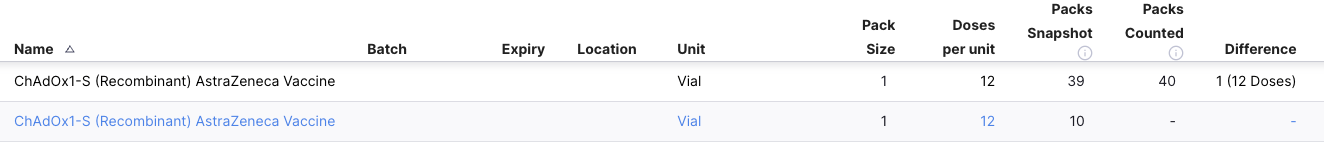
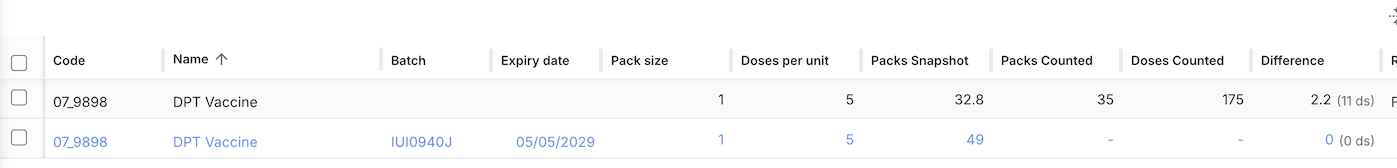
folder name consistency

diff --git a/themes/adidoks/templates/macros/docs-sidebar_accordion.html b/themes/adidoks/templates/macros/docs-sidebar_accordion.html
@@ -36,42 +36,41 @@
 						</h5>
 						<div id="collapse{{ subsection.title | slugify }}" class="accordion-collapse collapse {% if subsection.permalink in current_url %} show {% endif %}" aria-labelledby="{{ subsection.title | slugify }}" {% if subsection.permalink not in current_url %} data-bs-parent="#accordionSubMenu" {% endif %}>
 						  <div class="accordion-body">
-							<ul class="list-unstyled">
+							<ul class="list-unstyled">							
+								{% if subsection.subsections %}
+								<li><div class="accordion accordion-flush" id="accordionSubMenu{{ subsection.title | slugify }}">
+									{% for ss in subsection.subsections %}
+									{% set subsubsection = get_section(path=ss) %}
+									{% if subsubsection.pages %}
+									<div class="accordion-subitem">
+										<div id="{{ subsection.title | slugify }}-{{ subsubsection.title | slugify }}">
+											{% if subsubsection.permalink in current_url %}
+												<a class="docs-link docs-link-toggle" data-bs-toggle="collapse" data-bs-target="#collapse{{ subsection.title | slugify }}-{{ subsubsection.title | slugify }}" aria-expanded="true" aria-controls="collapse{{ subsection.title | slugify }}-{{ subsubsection.title | slugify }}">
+													{{ subsubsection.title }}
+												</a>
+											{% else %}
+												<a class="docs-link docs-link-toggle collapsed" data-bs-toggle="collapse" data-bs-target="#collapse{{ subsection.title | slugify }}-{{ subsubsection.title | slugify }}" aria-expanded="false" aria-controls="collapse{{ subsection.title | slugify }}-{{ subsubsection.title | slugify }}">
+													{{ subsubsection.title }}
+												</a>
+											{% endif %}
+										</div>
+										<div id="collapse{{ subsection.title | slugify }}-{{ subsubsection.title | slugify }}" class="accordion-collapse collapse {% if subsubsection.permalink in current_url %} show {% endif %}" aria-labelledby="{{ subsection.title | slugify }}-{{ subsubsection.title | slugify }}" {% if subsubsection.permalink not in current_url %} data-bs-parent="#accordionSubMenu{{ subsection.title | slugify }}" {% endif %}>
+										<div class="accordion-body">
+											<ul class="list-unstyled">
+											{% for page in subsubsection.pages %}
+												<li><a class="docs-link{% if current_url == page.permalink %} active{% endif %}" href="{{ page.permalink | safe }}">{{ page.title }}</a></li>
+											{% endfor %}
+											</ul>
+										</div>
+										</div>
+									</div>
+									{% endif %}
+									{% endfor %}
+								</div></li>
+								{% endif %}
 							  {% for page in subsection.pages %}
 								  <li><a class="docs-link{% if current_url == page.permalink %} active{% endif %}" href="{{ page.permalink | safe }}">{{ page.title }}</a></li>
 							  {% endfor %}
-							
-							{% if subsection.subsections %}
-							<li><div class="accordion accordion-flush" id="accordionSubMenu{{ subsection.title | slugify }}">
-								{% for ss in subsection.subsections %}
-								{% set subsubsection = get_section(path=ss) %}
-								{% if subsubsection.pages %}
-								<div class="accordion-subitem">
-									<div id="{{ subsection.title | slugify }}-{{ subsubsection.title | slugify }}">
-										{% if subsubsection.permalink in current_url %}
-											<a class="docs-link docs-link-toggle" data-bs-toggle="collapse" data-bs-target="#collapse{{ subsection.title | slugify }}-{{ subsubsection.title | slugify }}" aria-expanded="true" aria-controls="collapse{{ subsection.title | slugify }}-{{ subsubsection.title | slugify }}">
-												{{ subsubsection.title }}
-											</a>
-										{% else %}
-											<a class="docs-link docs-link-toggle collapsed" data-bs-toggle="collapse" data-bs-target="#collapse{{ subsection.title | slugify }}-{{ subsubsection.title | slugify }}" aria-expanded="false" aria-controls="collapse{{ subsection.title | slugify }}-{{ subsubsection.title | slugify }}">
-												{{ subsubsection.title }}
-											</a>
-										{% endif %}
-									</div>
-									<div id="collapse{{ subsection.title | slugify }}-{{ subsubsection.title | slugify }}" class="accordion-collapse collapse {% if subsubsection.permalink in current_url %} show {% endif %}" aria-labelledby="{{ subsection.title | slugify }}-{{ subsubsection.title | slugify }}" {% if subsubsection.permalink not in current_url %} data-bs-parent="#accordionSubMenu{{ subsection.title | slugify }}" {% endif %}>
-									<div class="accordion-body">
-										<ul class="list-unstyled">
-										{% for page in subsubsection.pages %}
-											<li><a class="docs-link{% if current_url == page.permalink %} active{% endif %}" href="{{ page.permalink | safe }}">{{ page.title }}</a></li>
-										{% endfor %}
-										</ul>
-									</div>
-									</div>
-								</div>
-								{% endif %}
-								{% endfor %}
-							</div></li>
-							{% endif %}
 							</ul>
 						  </div>
 						</div>

diff --git a/content/docs/inventory/inventory_adjustments/index.md b/content/docs/inventory/inventory_adjustments/index.md
@@ -38,31 +38,31 @@ The dialog displays information about the selected stock item and provides field
 
 At the top of the dialog you can see:
 
-| Field | Description |
-| :--- | :--- |
+| Field         | Description                         |
+| :------------ | :---------------------------------- |
 | **Item Name** | The name of the item being adjusted |
-| **Code** | The item code |
-| **Pack Size** | The pack size for this stock line |
+| **Code**      | The item code                       |
+| **Pack Size** | The pack size for this stock line   |
 
 ### Stock statistics
 
 Two cards display the current stock levels and a preview of the adjusted values:
 
-| Card | Description |
-| :--- | :--- |
+| Card                | Description                                                                                     |
+| :------------------ | :---------------------------------------------------------------------------------------------- |
 | **Available Packs** | Shows the current available quantity and the projected quantity after the adjustment is applied |
-| **Packs on Hand** | Shows the current packs on hand and the projected quantity after adjustment |
+| **Packs on Hand**   | Shows the current packs on hand and the projected quantity after adjustment                     |
 
 When a [backdated date](#backdating-an-adjustment) is selected, these cards display the **historical** stock level at that date alongside the projected adjusted value.
 
 ### Adjustment fields
 
-| Field | Description |
-| :--- | :--- |
-| **Increase / Decrease** | Select whether this adjustment will add stock (**Increase**) or remove stock (**Decrease**) |
-| **Adjust packs** | Enter the number of packs to add or remove |
-| **Date** | *(Optional, only visible if backdating is enabled)* The date the adjustment should be recorded as. Defaults to today. See [Backdating an Adjustment](#backdating-an-adjustment). |
-| **Reason** | Select a reason for the adjustment from the list. Reasons are configured by your system administrator. |
+| Field                   | Description                                                                                                                                                                      |
+| :---------------------- | :------------------------------------------------------------------------------------------------------------------------------------------------------------------------------- |
+| **Increase / Decrease** | Select whether this adjustment will add stock (**Increase**) or remove stock (**Decrease**)                                                                                      |
+| **Adjust packs**        | Enter the number of packs to add or remove                                                                                                                                       |
+| **Date**                | _(Optional, only visible if backdating is enabled)_ The date the adjustment should be recorded as. Defaults to today. See [Backdating an Adjustment](#backdating-an-adjustment). |
+| **Reason**              | Select a reason for the adjustment from the list. Reasons are configured by your system administrator.                                                                           |
 
 <div class="note">
 The <strong>Reason</strong> field is required and will remain disabled until you enter a quantity greater than zero.
@@ -126,11 +126,11 @@ If you select today's date in the **Date** field, the system treats this as a no
 
 ## Administrator Configuration
 
-Backdating for inventory adjustments is controlled by the **Backdating** global preference, available on the [Open mSupply Central Server](/docs/getting_started/central-server).
+Backdating for inventory adjustments is controlled by the **Backdating** global preference, available on the [Open mSupply Central Server](/docs/getting-started/central-server).
 
-| Setting | Description |
-| :--- | :--- |
-| **Inventory adjustments enabled** | Enables or disables the **Date** field in the Stock Adjustment dialog. |
-| **Max days** | The maximum number of days in the past that an adjustment can be backdated. Set to `0` for no limit. |
+| Setting                           | Description                                                                                          |
+| :-------------------------------- | :--------------------------------------------------------------------------------------------------- |
+| **Inventory adjustments enabled** | Enables or disables the **Date** field in the Stock Adjustment dialog.                               |
+| **Max days**                      | The maximum number of days in the past that an adjustment can be backdated. Set to `0` for no limit. |
 
 See [Global Preferences](/docs/manage/global-preferences/) for instructions on configuring these settings.

diff --git a/content/docs/catalogue/assets/index.fr.md b/content/docs/catalogue/assets/index.fr.md
@@ -30,15 +30,15 @@ Vous pouvez voir ici tous les équipements disponibles dans votre dépôt.
 
 La liste des équipements est divisée en 6 colonnes :
 
-| Colonne             | Description                                                                                                               |
-| :------------------ | :------------------------------------------------------------------------------------------------------------------------ |
-| **Sous-catalogue**  | Le catalogue auquel cet équipement appartient                                                                             |
-| **Code**            | Le code de l'article du catalogue auquel cet équipement appartient                                                       |
-| **Type**            | Le type d'équipement                                                                                                      |
-| **Fabricant**       | Le fabricant de votre équipement                                                                                          |
-| **Modèle**          | Le numéro de modèle de l'équipement                                                                                       |
-| **Classe**          | La classe de l'équipement. ex : `Équipement de chaîne du froid`                                                          |
-| **Catégorie**       | La sous-catégorie de l'équipement, ex. section E003 dans le catalogue PQS qui correspond aux `Réfrigérateurs et congélateurs` |
+| Colonne            | Description                                                                                                                   |
+| :----------------- | :---------------------------------------------------------------------------------------------------------------------------- |
+| **Sous-catalogue** | Le catalogue auquel cet équipement appartient                                                                                 |
+| **Code**           | Le code de l'article du catalogue auquel cet équipement appartient                                                            |
+| **Type**           | Le type d'équipement                                                                                                          |
+| **Fabricant**      | Le fabricant de votre équipement                                                                                              |
+| **Modèle**         | Le numéro de modèle de l'équipement                                                                                           |
+| **Classe**         | La classe de l'équipement. ex : `Équipement de chaîne du froid`                                                               |
+| **Catégorie**      | La sous-catégorie de l'équipement, ex. section E003 dans le catalogue PQS qui correspond aux `Réfrigérateurs et congélateurs` |
 
 ![Page équipements](images-en/assets_page.png)
 
@@ -62,7 +62,7 @@ Pour ajouter un filtre à la page, choisissez le filtre souhaité dans le menu d
 
 ### Importer et exporter
 
-L'importation et la suppression d'articles du catalogue d'équipements ne peuvent être effectuées que depuis le [Serveur Central Open mSupply](/docs/getting_started/central-server).
+L'importation et la suppression d'articles du catalogue d'équipements ne peuvent être effectuées que depuis le [Serveur Central Open mSupply](/docs/getting-started/central-server).
 
 #### Importer
 
@@ -96,7 +96,7 @@ Sur le Serveur Central Open mSupply, il est possible de sélectionner et supprim
 
 ### Gérer les raisons du journal de statut
 
-<div class="note">Les raisons du journal de statut sont gérées depuis le <a href="/docs/getting_started/central-server">serveur central Open mSupply</a>.</div>
+<div class="note">Les raisons du journal de statut sont gérées depuis le <a href="/docs/getting-started/central-server">serveur central Open mSupply</a>.</div>
 
 Lorsque les utilisateurs ajoutent un nouveau journal de statut pour un équipement particulier, des détails supplémentaires peuvent être fournis avec une raison associée au nouveau statut. Par exemple, un équipement qui a été étiqueté `NON_FONCTIONNEL` pourrait se voir attribuer la raison `alimentation électrique défectueuse`. Ces raisons sont personnalisables et associées à un statut particulier.
 

diff --git a/content/docs/manage/facilities/index.fr.md b/content/docs/manage/facilities/index.fr.md
@@ -13,7 +13,7 @@ toc = true
 top = false
 +++
 
-La liste des dépôts est disponible uniquement sur le [Serveur Central Open mSupply](/docs/getting_started/central-server). C'est ici que vous pouvez consulter tous les dépôts et gérer leurs propriétés.
+La liste des dépôts est disponible uniquement sur le [Serveur Central Open mSupply](/docs/getting-started/central-server). C'est ici que vous pouvez consulter tous les dépôts et gérer leurs propriétés.
 
 ## Consulter les dépôts
 
@@ -25,13 +25,13 @@ Une liste des dépôts de votre système vous sera présentée.
 
 La liste des dépôts est divisée en 5 colonnes :
 
-| Colonne        | Description                              |
-| :------------- | :--------------------------------------- |
-| **Code**       | Le code du dépôt                         |
-| **Nom**        | Le nom du dépôt                          |
-| **Fournisseur**| Si ce dépôt est un fournisseur           |
-| **Client**     | Si ce dépôt est un client               |
-| **Donateur**   | Si ce dépôt est un donateur             |
+| Colonne         | Description                    |
+| :-------------- | :----------------------------- |
+| **Code**        | Le code du dépôt               |
+| **Nom**         | Le nom du dépôt                |
+| **Fournisseur** | Si ce dépôt est un fournisseur |
+| **Client**      | Si ce dépôt est un client      |
+| **Donateur**    | Si ce dépôt est un donateur    |
 
 <div class="tip">
 Vous pouvez savoir si un client utilise également Open mSupply dans son dépôt s'il dispose d'une icône comme celle-ci <img src="images/is_msupplystoreicon.png" alt="Dépôt" style="width:auto"> à côté du code.
@@ -131,7 +131,7 @@ Cliquez sur `Annuler` à tout moment pour annuler vos modifications et fermer la
 
 ## Permissions et restrictions
 
-Les dépôts ne sont visibles que sur le [Serveur Central Open mSupply](/docs/getting_started/central-server).
+Les dépôts ne sont visibles que sur le [Serveur Central Open mSupply](/docs/getting-started/central-server).
 
 Pour modifier les dépôts de façon centralisée, vous avez besoin de la permission `Peut modifier les données centrales`, activée dans l'[onglet Permissions omSupply](https://docs.msupply.org.nz/admin:managing_users?s[]=permission#omsupply_permissions_tab) de votre Dépôt Central.
 

diff --git a/content/docs/manage/demographics/index.fr.md b/content/docs/manage/demographics/index.fr.md
@@ -15,7 +15,7 @@ top = false
 
 La section Démographie vous permet de consulter et de gérer les projections futures pour différents indicateurs démographiques. Ces données de population peuvent ensuite être utilisées pour estimer la capacité de stockage à froid requise pour les programmes de vaccination à venir.
 
-La gestion des données démographiques est uniquement disponible sur le [Serveur Central Open mSupply](/docs/getting_started/central-server).
+La gestion des données démographiques est uniquement disponible sur le [Serveur Central Open mSupply](/docs/getting-started/central-server).
 
 ## Configuration
 
@@ -35,12 +35,12 @@ Une liste des indicateurs démographiques vous sera présentée :
 
 Les colonnes suivantes sont affichées :
 
-| Colonne                  | Description                                                                             |
-| :----------------------- | :-------------------------------------------------------------------------------------- |
-| **Nom**                  | Le nom du indicateur démographique                                                      |
-| **Pourcentage**          | Pourcentage de la population générale inclus dans ce groupe démographique               |
-| **Population**           | La population calculée pour ce groupe, basée sur le `Pourcentage`                      |
-| **Colonnes sur 5 ans**   | Projections de population pour 5 années futures, basées sur les prévisions de `% de croissance` |
+| Colonne                | Description                                                                                     |
+| :--------------------- | :---------------------------------------------------------------------------------------------- |
+| **Nom**                | Le nom du indicateur démographique                                                              |
+| **Pourcentage**        | Pourcentage de la population générale inclus dans ce groupe démographique                       |
+| **Population**         | La population calculée pour ce groupe, basée sur le `Pourcentage`                               |
+| **Colonnes sur 5 ans** | Projections de population pour 5 années futures, basées sur les prévisions de `% de croissance` |
 
 ## Pourcentage de croissance annuelle
 
@@ -68,7 +68,7 @@ Cela ajoutera une nouvelle ligne au tableau. Vous pouvez maintenant saisir un no
 
 ## Permissions et restrictions
 
-Les données démographiques ne sont visibles que sur le [Serveur Central Open mSupply](/docs/getting_started/central-server) et nécessitent la préférence de dépôt [`mobile : Utilise le module vaccin`](https://docs.msupply.org.nz/cold_chain_equipment:mobile?s[]=vaccine#enable_the_vaccine_module_for_the_mobile_store).
+Les données démographiques ne sont visibles que sur le [Serveur Central Open mSupply](/docs/getting-started/central-server) et nécessitent la préférence de dépôt [`mobile : Utilise le module vaccin`](https://docs.msupply.org.nz/cold_chain_equipment:mobile?s[]=vaccine#enable_the_vaccine_module_for_the_mobile_store).
 
 ![Préférence de dépôt mSupply Module Vaccin](vaccine_module.png)
 

diff --git a/content/docs/settings/configuration/index.md b/content/docs/settings/configuration/index.md
@@ -13,7 +13,7 @@ toc = true
 top = false
 +++
 
-The configuration settings section allows you to configure custom data for the system. It is only available on the [Open mSupply Central Server](/docs/getting_started/central-server).
+The configuration settings section allows you to configure custom data for the system. It is only available on the [Open mSupply Central Server](/docs/getting-started/central-server).
 
 ## Viewing the configuration settings
 
@@ -94,18 +94,18 @@ Here's the list of preferences which are currently in use:
 | ------------------------------------------------------------------------------- | -------------------------------------------------------------------------------------------------------- |
 | Can manually link requisition to supplier invoice                               | [Inbound shipments](/docs/replenishment/inbound-shipments/)                                              |
 | Edit prescribed quantity on prescription                                        | [Prescriptions](/docs/dispensary/prescriptions/)                                                         |
-| Expiring items period                                                           | Used for some [Reports](/docs/getting_started/reports/)                                                  |
+| Expiring items period                                                           | Used for some [Reports](/docs/getting-started/reports/)                                                  |
 | Include requisitions from this store in suppliers' remote authorisation process | Used in [Internal Orders](/docs/replenishment/internal-orders/) if using the remote authorisation module |
 | Keep requisition lines with zero requested quantity on finalise                 | [Requisitions](/docs/distribution/requisitions/)                                                         |
-| Monthly consumption look back period                                            | Used for some [Reports](/docs/getting_started/reports/)                                                  |
-| Months lead time                                                                | Used for some [Reports](/docs/getting_started/reports/)                                                  |
+| Monthly consumption look back period                                            | Used for some [Reports](/docs/getting-started/reports/)                                                  |
+| Months lead time                                                                | Used for some [Reports](/docs/getting-started/reports/)                                                  |
 | Open mSupply: Uses program module                                               | If using [Patient Programs](/docs/programs/program-module/)                                              |
 | Set pack to one for all visible items in this store                             | Will enable the 'pack to one' feature when receiving stock                                               |
 | Show extra fields in requisition                                                | Displays additional fields for internal orders and requisitions                                          |
-| Stocktake frequency                                                             | Used for some [Reports](/docs/getting_started/reports/)                                                  |
+| Stocktake frequency                                                             | Used for some [Reports](/docs/getting-started/reports/)                                                  |
 | Store: Able to issue in foreign currency                                        | If using multiple currencies, this setting is used in multiple places                                    |
-| Threshold for overstock                                                         | Used for some [Reports](/docs/getting_started/reports/)                                                  |
-| Threshold for understock                                                        | Used for some [Reports](/docs/getting_started/reports/)                                                  |
+| Threshold for overstock                                                         | Used for some [Reports](/docs/getting-started/reports/)                                                  |
+| Threshold for understock                                                        | Used for some [Reports](/docs/getting-started/reports/)                                                  |
 | Use consumption & stock from customers for internal orders                      | [Internal Orders](/docs/replenishment/internal-orders/)                                                  |
 | Use remote authorisation for response requisitions                              | If using authorisation for [Requisitions](/docs/distribution/requisitions/)                              |
 | mobile: Uses Vaccine Module                                                     | [Cold chain](/docs/coldchain/introduction/#getting-started)                                              |

diff --git a/content/docs/catalogue/assets/index.md b/content/docs/catalogue/assets/index.md
@@ -61,7 +61,7 @@ To add a filter to the page, choose the required filter from the drop down. Mult
 
 ### Importing And Exporting
 
-Importing and deleting of asset catalogue items can only be done on the [Open mSupply Central Server](/docs/getting_started/central-server).
+Importing and deleting of asset catalogue items can only be done on the [Open mSupply Central Server](/docs/getting-started/central-server).
 
 #### Import
 
@@ -95,7 +95,7 @@ On the Open mSupply Central Server, there is the option to select and delete ass
 
 ### Managing status log reasons
 
-<div class="note">Status log reasons are managed from the <a href="/docs/getting_started/central-server">Open mSupply central server</a>.</div>
+<div class="note">Status log reasons are managed from the <a href="/docs/getting-started/central-server">Open mSupply central server</a>.</div>
 
 When users add a new status log against a particular asset, more detail can be provided with a reason associated with the new status. For example, an asset which has been labled `NON_FUNCTIONING` could be assigned a reason of `power supply broken`. These reasons are customisable, and associated with a particular status.
 

diff --git a/content/docs/manage/demographics/index.es.md b/content/docs/manage/demographics/index.es.md
@@ -15,7 +15,7 @@ top = false
 
 La sección de Demografía es donde puedes visualizar y gestionar proyecciones futuras para diferentes indicadores demográficos. Estos datos de población pueden utilizarse para estimar la capacidad de almacenamiento en frío necesaria para los próximos programas de vacunación.
 
-La gestión de demografía solo está disponible en el [Servidor Central de Open mSupply](/docs/getting_started/central-server).
+La gestión de demografía solo está disponible en el [Servidor Central de Open mSupply](/docs/getting-started/central-server).
 
 ## Configuración
 
@@ -68,7 +68,7 @@ Esto agregará una nueva fila a la tabla. Ahora puedes ingresar un nombre para e
 
 ## Permisos y restricciones
 
-Los indicadores demográficos solo son visibles en el [Servidor Central de Open mSupply](/docs/getting_started/central-server) y requieren la preferencia de almacén [`mobile: Usa módulo de vacunas`](https://docs.msupply.org.nz/cold_chain_equipment:mobile?s[]=vaccine#enable_the_vaccine_module_for_the_mobile_store).
+Los indicadores demográficos solo son visibles en el [Servidor Central de Open mSupply](/docs/getting-started/central-server) y requieren la preferencia de almacén [`mobile: Usa módulo de vacunas`](https://docs.msupply.org.nz/cold_chain_equipment:mobile?s[]=vaccine#enable_the_vaccine_module_for_the_mobile_store).
 
 ![mSupply Store Preference Vaccine Module](vaccine_module.png)
 

diff --git a/content/docs/manage/demographics/index.md b/content/docs/manage/demographics/index.md
@@ -15,7 +15,7 @@ top = false
 
 The Demographics section is where you can view and manage future projections for different Demographic Indicators. This population data can then be used to estimate the required cold storage capacity for upcoming immunization programs.
 
-Demographics management is only available on the [Open mSupply Central Server](/docs/getting_started/central-server).
+Demographics management is only available on the [Open mSupply Central Server](/docs/getting-started/central-server).
 
 ## Configuration
 
@@ -68,7 +68,7 @@ This will add a new row to the table. You can now enter a name for the demograph
 
 ## Permissions & Restrictions
 
-Demographics are only visible on the [Open mSupply Central Server](/docs/getting_started/central-server) and requires the [`mobile: Uses vaccine module`](https://docs.msupply.org.nz/cold_chain_equipment:mobile?s[]=vaccine#enable_the_vaccine_module_for_the_mobile_store) store preference.
+Demographics are only visible on the [Open mSupply Central Server](/docs/getting-started/central-server) and requires the [`mobile: Uses vaccine module`](https://docs.msupply.org.nz/cold_chain_equipment:mobile?s[]=vaccine#enable_the_vaccine_module_for_the_mobile_store) store preference.
 
 ![mSupply Store Preference Vaccine Module](vaccine_module.png)
 

diff --git a/content/docs/manage/facilities/index.es.md b/content/docs/manage/facilities/index.es.md
@@ -13,7 +13,7 @@ toc = true
 top = false
 +++
 
-La lista de instalaciones está disponible únicamente en el [Servidor Central de Open mSupply](/docs/getting_started/central-server). Aquí puedes ver todos los almacenes y gestionar sus propiedades.
+La lista de instalaciones está disponible únicamente en el [Servidor Central de Open mSupply](/docs/getting-started/central-server). Aquí puedes ver todos los almacenes y gestionar sus propiedades.
 
 ## Ver las Instalaciones
 
@@ -95,7 +95,7 @@ Haz clic en `Cancelar` en cualquier momento para revertir tus cambios y cerrar l
 
 ## Permisos y restricciones
 
-Los almacenes solo son visibles en el [Servidor Central de Open mSupply](/docs/getting_started/central-server).
+Los almacenes solo son visibles en el [Servidor Central de Open mSupply](/docs/getting-started/central-server).
 
 Para editar almacenes de forma centralizada, necesitas el permiso Puedes `modificar datos centrales` habilitado en la [Pestaña de permisos de omSupply](https://docs.msupply.org.nz/admin:managing_users?s[]=permission#omsupply_permissions_tab) en tu almacén central.
 

diff --git a/content/docs/manage/facilities/index.md b/content/docs/manage/facilities/index.md
@@ -13,7 +13,7 @@ toc = true
 top = false
 +++
 
-The Stores list is available only on the [Open mSupply Central Server](/docs/getting_started/central-server). This is where you can view all stores, and manage their properties.
+The Stores list is available only on the [Open mSupply Central Server](/docs/getting-started/central-server). This is where you can view all stores, and manage their properties.
 
 ## Viewing Stores
 
@@ -221,7 +221,7 @@ Click `Cancel` at any time to revert your changes and close the window.
 
 ## Permissions & Restrictions
 
-Stores are only visible on the [Open mSupply Central Server](/docs/getting_started/central-server).
+Stores are only visible on the [Open mSupply Central Server](/docs/getting-started/central-server).
 
 To Edit stores centrally you need the `Can modify central data` permission, enabled in the [omSupply Permissions Tab](https://docs.msupply.org.nz/admin:managing_users?s[]=permission#omsupply_permissions_tab) on your Central Store.
 